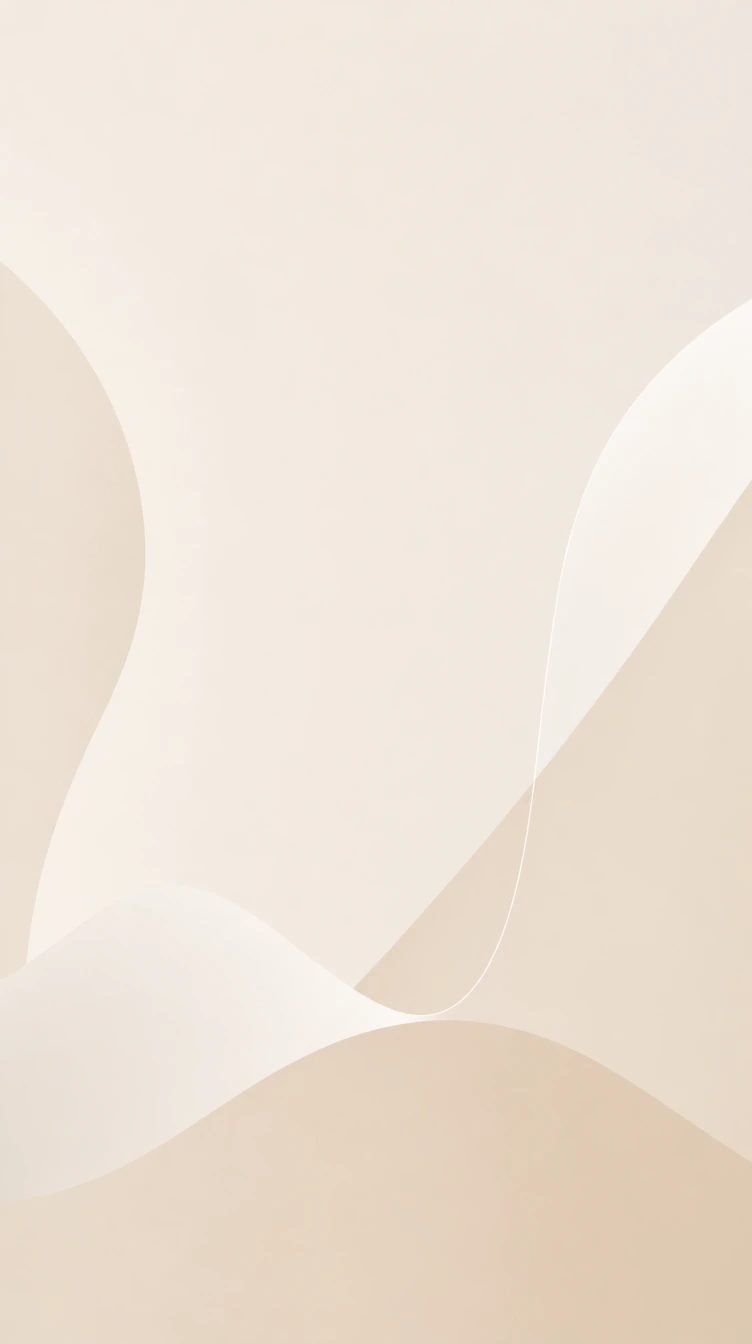
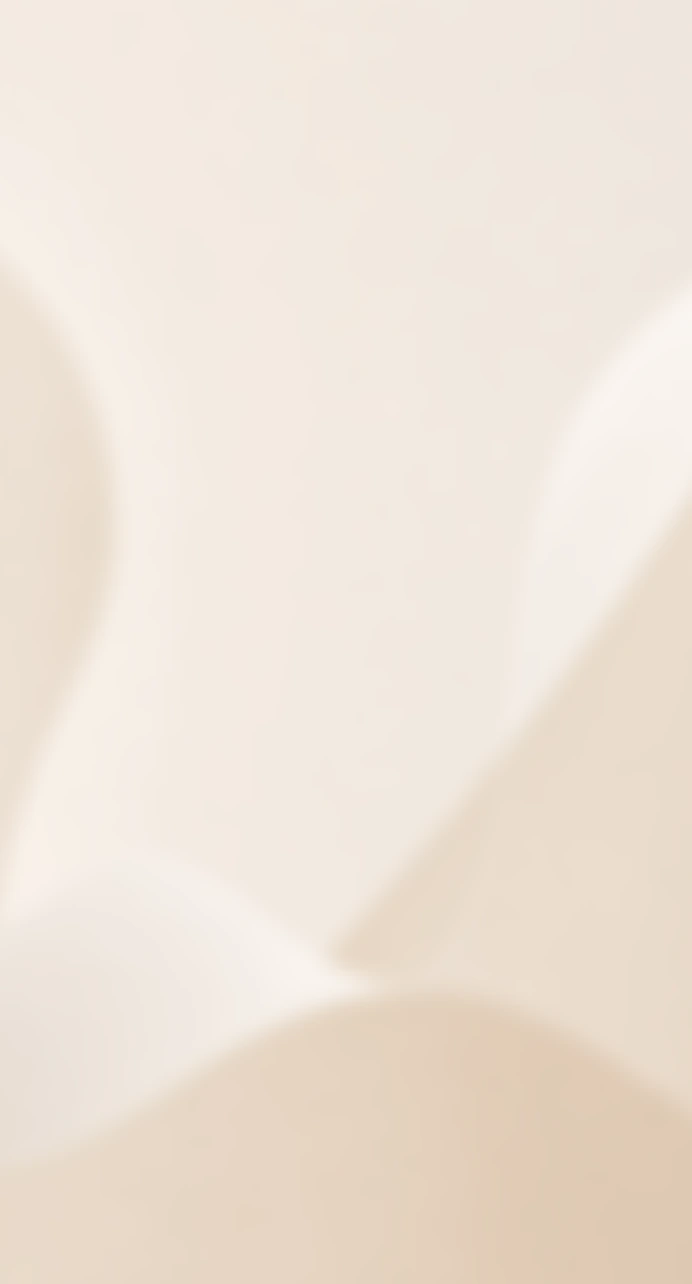
v1.63: лёгкое размытие фона
Размытие запечено в сами картинки (гаусс, радиус 10 px на исходнике
752x1344), а не сделано CSS-фильтром: filter на фоновом слое заставлял бы
телефон перерисовывать размытие на каждый кадр прокрутки, тогда как здесь
оно ничего не стоит во время работы. Заодно файлы стали легче — 7 КБ
вместо 12.

По краям гауссово размытие оставляет тёмную кайму, поэтому рамка в три
радиуса срезана; при background-size:cover она всё равно уходила в обрезку.

Пайплайн сохранён в BG/make-bg.py (папка не уезжает в репозиторий) —
поменять силу размытия теперь одно число.

diff --git a/sw.js b/sw.js
@@ -1,5 +1,5 @@
 'use strict';
-var CACHE = 'vtodo-shell-v162';
+var CACHE = 'vtodo-shell-v163';
 var SHELL = ['./index.html', './manifest.json', './icon.png', './icon-maskable.png', './apple-touch-icon.png', './icon-badge.png', './sw.js'];
 /* Фоновые картинки — приятно, но без них приложение полностью работоспособно
    (под ними лежит цвет --screen). Держим их ОТДЕЛЬНО от SHELL сознательно:

diff --git a/index.html b/index.html
@@ -686,7 +686,7 @@ function initGoogleSignIn(){
   });
 }
 window.addEventListener('load', function(){ setTimeout(initGoogleSignIn, 300); });
-var APP_VERSION = '1.62';
+var APP_VERSION = '1.63';
 var VAPID_PUBLIC_KEY = 'BAvR2FKlBVlxqD-nxMCmCHtXEFh_sBjVKdVAkmmW7JEuafxWCM_dsK-00oFuE9Tf5r3wBBr2gEIiYhAmHlANSzg';
 
 /* ── Helpers ── */
